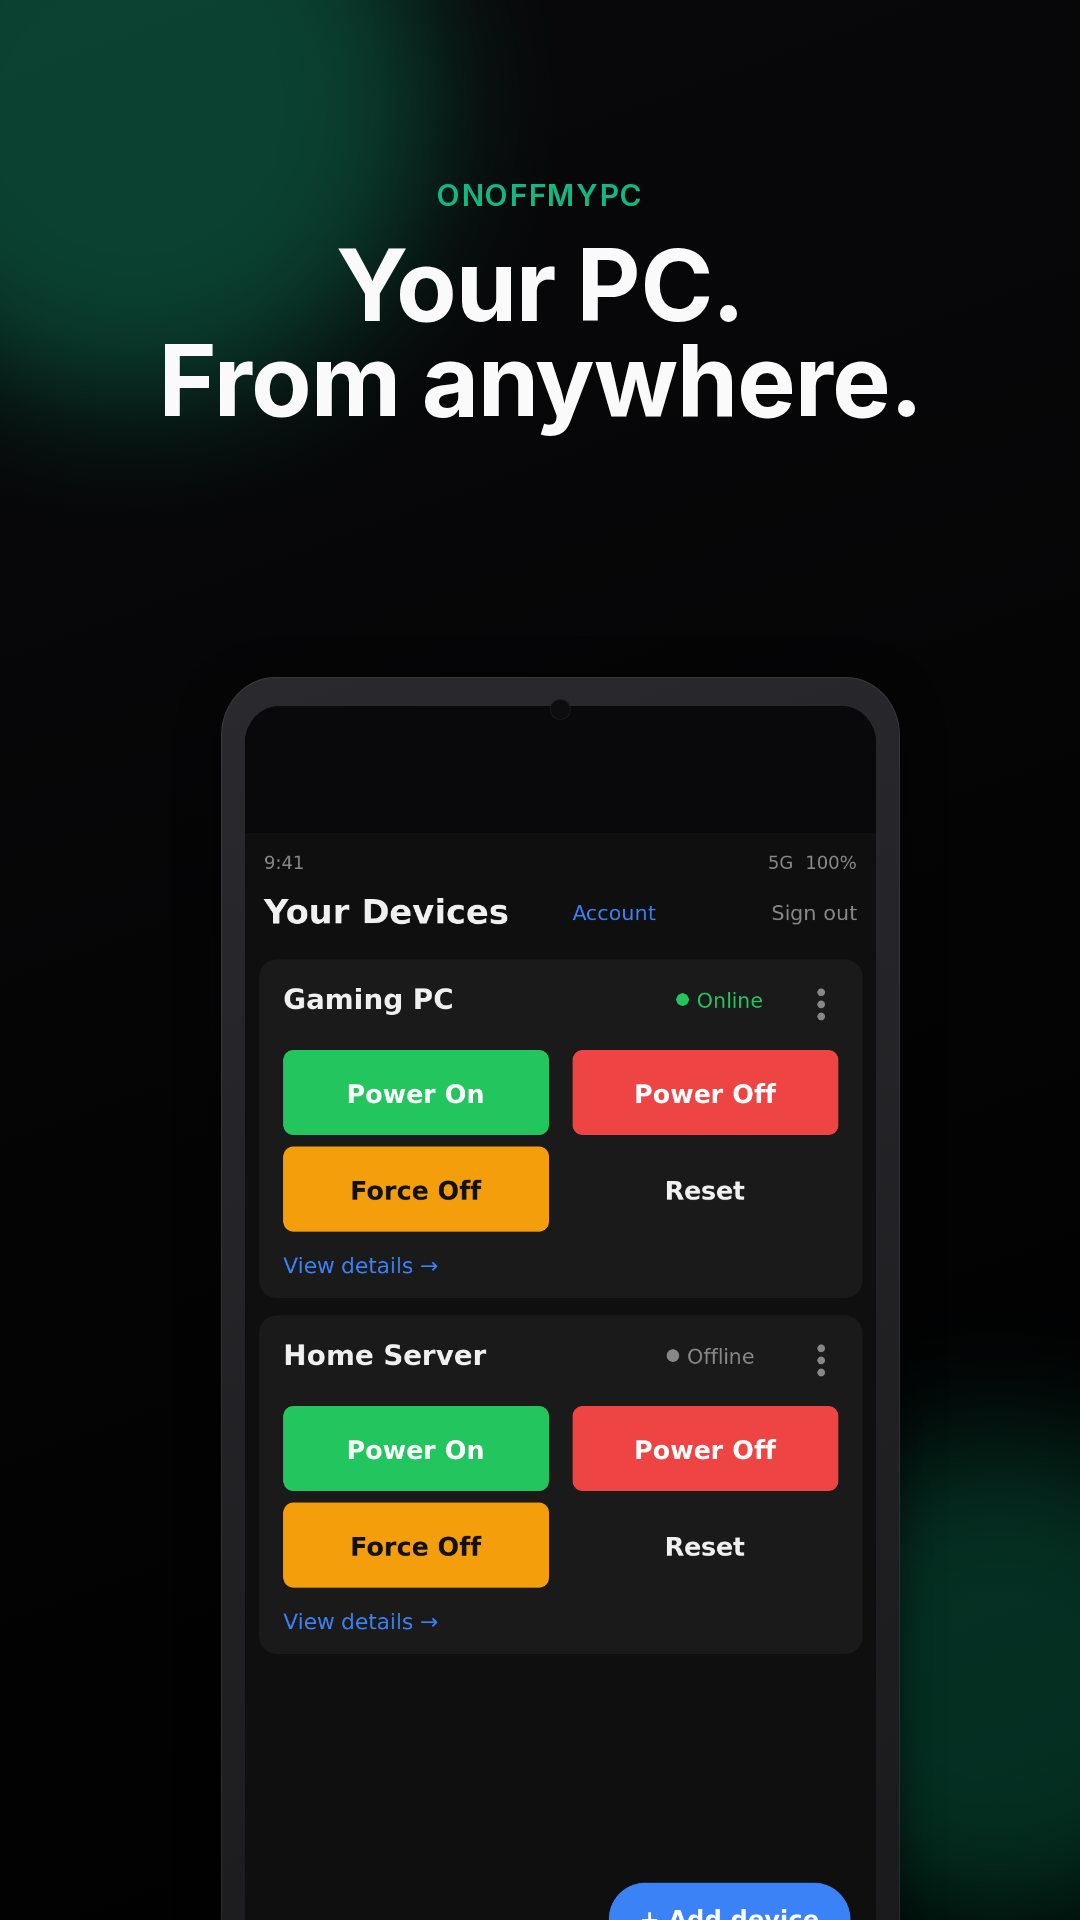
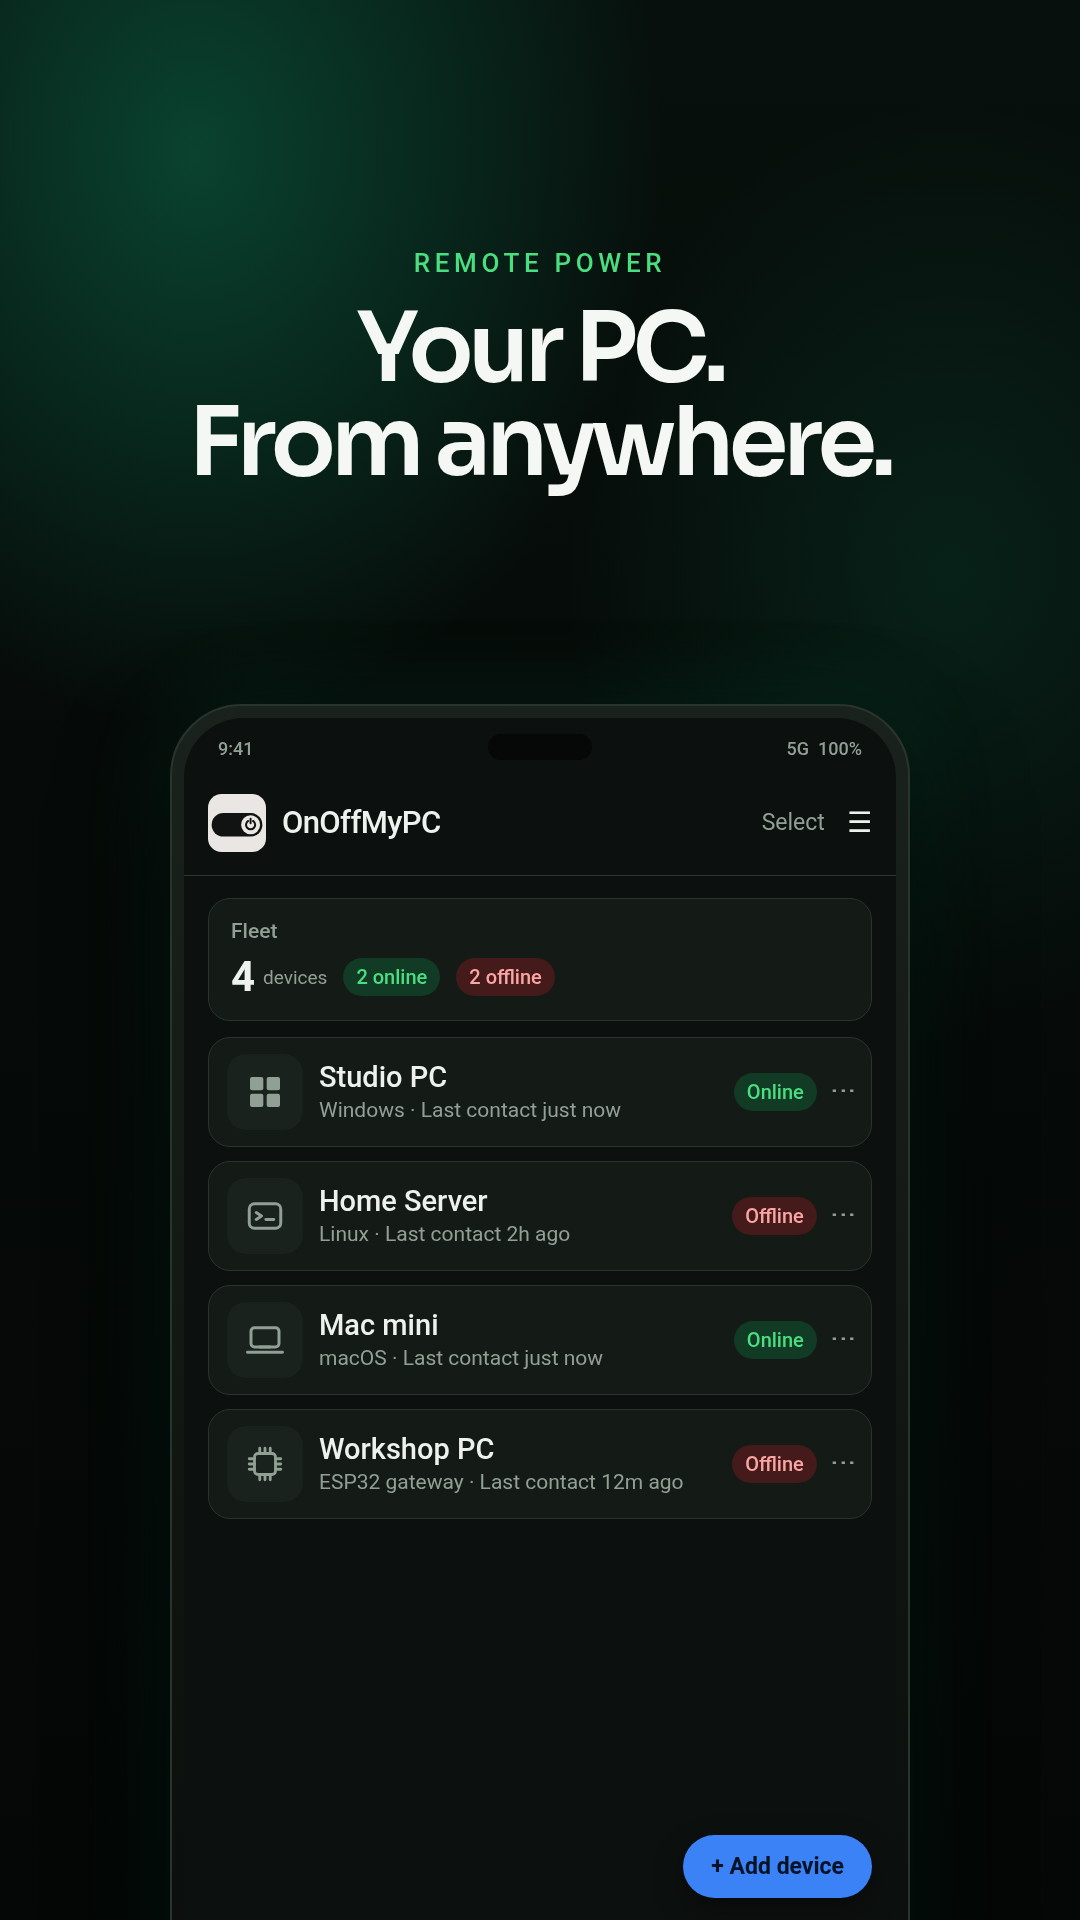
feat(play): refresh store screenshots for the Toggle release
Replace the old dashboard and login captures with the compact device list, device detail, and live telemetry views. Add the HTML artwork source.

diff --git a/mobile/playstore/screenshots/src/play-store.html b/mobile/playstore/screenshots/src/play-store.html
@@ -1,0 +1,261 @@
+<!doctype html>
+<html lang="en">
+<head>
+<meta charset="utf-8">
+<meta name="viewport" content="width=1080, initial-scale=1">
+<link rel="preconnect" href="https://fonts.googleapis.com">
+<link rel="preconnect" href="https://fonts.gstatic.com" crossorigin>
+<link href="https://fonts.googleapis.com/css2?family=Sora:wght@500;600;700&family=Roboto:wght@400;500;700&display=swap" rel="stylesheet">
+<style>
+  :root {
+    --canvas: #0c100e;
+    --surface: #141a16;
+    --subtle: #1a221d;
+    --strong: #222b25;
+    --border: #2a342e;
+    --border-strong: #3a463e;
+    --text: #eef2ee;
+    --muted: #91a094;
+    --blue: #3b82f6;
+    --blue-ink: #061225;
+    --blue-soft: #93c5fd;
+    --green: #4ade80;
+    --green-bg: #123b25;
+    --red: #fca5a5;
+    --red-bg: #451a1a;
+    --amber: #fbbf24;
+    --amber-bg: #3b2a0a;
+  }
+  * { box-sizing: border-box; }
+  html, body { margin: 0; background: #000; font-family: Roboto, system-ui, sans-serif; color: var(--text); }
+  .shot { position: relative; width: 1080px; height: 1920px; overflow: hidden; background: #060a08; }
+  .bg { position: absolute; inset: 0; background:
+    radial-gradient(ellipse 70% 48% at 18% 8%, rgba(16, 185, 129, .30), transparent 62%),
+    radial-gradient(ellipse 55% 38% at 88% 30%, rgba(16, 185, 129, .12), transparent 65%),
+    linear-gradient(180deg, #07100c 0%, #060a08 48%, #040706 100%);
+  }
+  .grain { position: absolute; inset: 0; opacity: .08; background-image: radial-gradient(rgba(255,255,255,.35) .6px, transparent .6px); background-size: 4px 4px; }
+  .marketing { position: absolute; top: 248px; left: 80px; right: 80px; text-align: center; z-index: 2; }
+  .eyebrow { color: var(--green); font-size: 26px; font-weight: 500; letter-spacing: .18em; text-transform: uppercase; }
+  h1 { margin: 24px 0 0; font-family: Sora, sans-serif; font-size: 96px; font-weight: 600; line-height: .98; letter-spacing: -.055em; color: #f4f7f4; }
+  .phone { position: absolute; z-index: 3; top: 704px; left: 170px; width: 740px; height: 1320px; padding: 12px; border: 2px solid var(--border); border-radius: 72px; background: linear-gradient(180deg, #1a221d, #0a0d0b); box-shadow: 0 46px 110px rgba(0,0,0,.72), 0 0 90px rgba(16,185,129,.13); }
+  .screen { position: relative; width: 100%; height: 100%; overflow: hidden; border-radius: 60px; background: var(--canvas); }
+  .notch { position: absolute; z-index: 8; top: 16px; left: 50%; width: 104px; height: 26px; transform: translateX(-50%); border-radius: 999px; background: #050806; }
+  .statusbar { display: flex; align-items: center; justify-content: space-between; height: 52px; padding: 8px 34px 0; color: var(--muted); font-size: 18px; font-weight: 500; }
+  .appbar { display: flex; align-items: center; gap: 16px; height: 106px; padding: 8px 24px; border-bottom: 1px solid var(--border); }
+  .logo { width: 58px; height: 58px; flex: none; }
+  .appbar .name { font-size: 31px; font-weight: 500; letter-spacing: -.02em; }
+  .appbar .actions { display: flex; align-items: center; gap: 22px; margin-left: auto; color: var(--muted); font-size: 23px; }
+  .appbar .select { font-size: 23px; }
+  .appbar .menu { color: var(--text); font-size: 28px; line-height: 1; }
+  .back { color: var(--muted); font-size: 36px; line-height: 1; margin-right: 4px; }
+  .content { padding: 22px 24px 0; }
+  .card { border: 1px solid var(--border); border-radius: 22px; background: var(--surface); }
+  .fleet { padding: 20px 22px 22px; margin-bottom: 16px; }
+  .fleet .label { color: var(--muted); font-size: 21px; font-weight: 500; }
+  .fleet .summary { display: flex; align-items: center; gap: 16px; margin-top: 13px; }
+  .total { font-size: 42px; font-weight: 700; line-height: 1; }
+  .total-label { margin-left: -8px; color: var(--muted); font-size: 19px; }
+  .pill { display: inline-flex; align-items: center; border-radius: 999px; padding: 7px 13px; font-size: 20px; font-weight: 500; white-space: nowrap; }
+  .online { color: var(--green); background: var(--green-bg); }
+  .offline { color: var(--red); background: var(--red-bg); }
+  .device { display: flex; align-items: center; gap: 16px; margin-bottom: 14px; padding: 16px 18px; }
+  .os { display: flex; width: 76px; height: 76px; flex: none; align-items: center; justify-content: center; border-radius: 19px; background: var(--subtle); }
+  .device-info { min-width: 0; flex: 1; }
+  .device-name { font-size: 29px; font-weight: 500; line-height: 1.1; }
+  .device-sub { margin-top: 5px; overflow: hidden; color: var(--muted); font-size: 21px; text-overflow: ellipsis; white-space: nowrap; }
+  .dots { margin-left: 2px; color: var(--muted); font-size: 26px; letter-spacing: 2px; writing-mode: vertical-rl; line-height: .7; }
+  .fab { position: absolute; right: 24px; bottom: 112px; display: flex; align-items: center; gap: 12px; border-radius: 999px; background: var(--blue); color: var(--blue-ink); padding: 18px 28px; font-size: 23px; font-weight: 600; box-shadow: 0 12px 30px rgba(0,0,0,.35); }
+  .tabs { display: flex; gap: 30px; height: 72px; padding: 0 24px; border-bottom: 1px solid var(--border); color: var(--muted); font-size: 22px; font-weight: 500; }
+  .tab { display: flex; align-items: center; border-bottom: 3px solid transparent; }
+  .tab.active { color: var(--blue-soft); border-bottom-color: var(--blue); }
+  .hero { display: flex; align-items: center; gap: 17px; padding: 19px 21px; margin-bottom: 16px; }
+  .hero .os { width: 92px; height: 92px; border-radius: 23px; }
+  .hero-info { min-width: 0; flex: 1; }
+  .hero-name { font-size: 35px; font-weight: 500; letter-spacing: -.02em; line-height: 1.05; }
+  .hero-sub { margin-top: 6px; color: var(--muted); font-size: 21px; white-space: nowrap; overflow: hidden; text-overflow: ellipsis; }
+  .pc-state { margin-top: 7px; color: var(--muted); font-size: 21px; }
+  .section-title { margin: 18px 0 9px; color: var(--muted); font-size: 22px; font-weight: 500; }
+  .power { padding: 18px 20px 20px; margin-bottom: 14px; }
+  .power h2 { margin: 0; font-size: 28px; font-weight: 500; letter-spacing: -.015em; }
+  .power p { margin: 7px 0 16px; color: var(--muted); font-size: 20px; line-height: 1.3; }
+  .power-grid { display: grid; grid-template-columns: 1fr 1fr; gap: 12px; }
+  .power-btn { display: flex; height: 78px; align-items: center; justify-content: center; border-radius: 16px; font-size: 24px; font-weight: 600; }
+  .power-on { background: var(--blue); color: var(--blue-ink); }
+  .power-off { background: #dc2626; color: #fff; }
+  .force { background: #f59e0b; color: #000; }
+  .reset { border: 1px solid var(--border-strong); color: var(--text); }
+  .connection { padding: 13px 19px; }
+  .conn-row { display: flex; align-items: baseline; justify-content: space-between; gap: 14px; padding: 9px 0; border-bottom: 1px solid rgba(42,52,46,.55); font-size: 20px; }
+  .conn-row:last-child { border-bottom: 0; }
+  .conn-label { color: var(--muted); }
+  .conn-value { overflow: hidden; color: var(--text); font-family: Roboto, sans-serif; text-align: right; white-space: nowrap; text-overflow: ellipsis; }
+  .mono { font-family: "Roboto Mono", ui-monospace, monospace; font-size: 18px; }
+  .stat-grid { display: grid; grid-template-columns: 1fr 1fr; gap: 12px; }
+  .stat { padding: 17px 18px; }
+  .stat .label { color: var(--muted); font-size: 19px; }
+  .stat .value { margin-top: 8px; font-size: 34px; font-weight: 500; letter-spacing: -.03em; }
+  .stat .value.green { color: var(--green); }
+  .latest { display: flex; align-items: center; justify-content: space-between; margin-top: 12px; padding: 16px 18px; }
+  .latest .label { color: var(--muted); font-size: 19px; }
+  .latest .value { font-size: 23px; }
+  .hardware { margin-top: 18px; }
+  .hardware-card { padding: 15px 18px; }
+  .hw-row { display: grid; grid-template-columns: 150px 1fr 58px; gap: 12px; align-items: center; padding: 7px 0; font-size: 19px; color: var(--muted); }
+  .hw-value { color: var(--text); text-align: right; }
+  .bar { height: 8px; overflow: hidden; border-radius: 99px; background: var(--strong); }
+  .bar span { display: block; height: 100%; border-radius: 99px; background: var(--blue); }
+  .chart { margin-top: 18px; }
+  .chart-card { padding: 16px 18px 12px; }
+  .chart-card .chart-title { color: var(--muted); font-size: 21px; }
+  .chart svg { display: block; width: 100%; height: auto; margin-top: 8px; }
+  .chart-label { fill: var(--muted); font-family: Roboto, sans-serif; font-size: 16px; }
+</style>
+</head>
+<body>
+
+<section class="shot" id="shot-1">
+  <div class="bg"></div><div class="grain"></div>
+  <div class="marketing">
+    <div class="eyebrow">Remote power</div>
+    <h1>Your PC.<br>From anywhere.</h1>
+  </div>
+  <div class="phone">
+    <div class="screen">
+      <div class="notch"></div>
+      <div class="statusbar"><span>9:41</span><span>5G&nbsp;&nbsp;100%</span></div>
+      <div class="appbar">
+        <svg class="logo" viewBox="0 0 64 64" aria-hidden="true">
+          <rect width="64" height="64" rx="15" fill="#e9e6e3"/>
+          <rect x="4" y="21" width="56" height="26" rx="13" fill="#111312"/>
+          <circle cx="47" cy="34" r="10.5" fill="#e9e6e3"/>
+          <path d="M49.65 29.76 A5 5 0 1 1 44.35 29.76" fill="none" stroke="#111312" stroke-width="2.2" stroke-linecap="round"/>
+          <rect x="45.9" y="26.1" width="2.2" height="7.4" rx="1.1" fill="#111312"/>
+        </svg>
+        <span class="name">OnOffMyPC</span>
+        <span class="actions"><span class="select">Select</span><span class="menu">☰</span></span>
+      </div>
+      <div class="content">
+        <div class="card fleet">
+          <div class="label">Fleet</div>
+          <div class="summary"><span class="total">4</span><span class="total-label">devices</span><span class="pill online">2 online</span><span class="pill offline">2 offline</span></div>
+        </div>
+        <div class="card device">
+          <span class="os">
+            <svg width="40" height="40" viewBox="0 0 24 24" aria-hidden="true"><g fill="#91a094"><rect x="3" y="3" width="8" height="8" rx="1.2"/><rect x="13" y="3" width="8" height="8" rx="1.2"/><rect x="3" y="13" width="8" height="8" rx="1.2"/><rect x="13" y="13" width="8" height="8" rx="1.2"/></g></svg>
+          </span>
+          <div class="device-info"><div class="device-name">Studio PC</div><div class="device-sub">Windows · Last contact just now</div></div>
+          <span class="pill online">Online</span><span class="dots">⋮</span>
+        </div>
+        <div class="card device">
+          <span class="os">
+            <svg width="42" height="42" viewBox="0 0 24 24" fill="none" stroke="#91a094" stroke-width="1.7" stroke-linecap="round" stroke-linejoin="round" aria-hidden="true"><rect x="3" y="5" width="18" height="14" rx="3"/><path d="M7 10l3 2-3 2M12.5 14h4.5"/></svg>
+          </span>
+          <div class="device-info"><div class="device-name">Home Server</div><div class="device-sub">Linux · Last contact 2h ago</div></div>
+          <span class="pill offline">Offline</span><span class="dots">⋮</span>
+        </div>
+        <div class="card device">
+          <span class="os">
+            <svg width="42" height="42" viewBox="0 0 24 24" fill="none" stroke="#91a094" stroke-width="1.7" stroke-linecap="round" stroke-linejoin="round" aria-hidden="true"><rect x="4" y="5" width="16" height="11" rx="2"/><path d="M2 19h20M9 16h6"/></svg>
+          </span>
+          <div class="device-info"><div class="device-name">Mac mini</div><div class="device-sub">macOS · Last contact just now</div></div>
+          <span class="pill online">Online</span><span class="dots">⋮</span>
+        </div>
+        <div class="card device">
+          <span class="os">
+            <svg width="42" height="42" viewBox="0 0 24 24" fill="none" stroke="#91a094" stroke-width="1.6" stroke-linecap="round" stroke-linejoin="round" aria-hidden="true"><rect x="6" y="6" width="12" height="12" rx="2"/><path d="M9 3v3M12 3v3M15 3v3M9 18v3M12 18v3M15 18v3M3 9h3M3 12h3M3 15h3M18 9h3M18 12h3M18 15h3"/></svg>
+          </span>
+          <div class="device-info"><div class="device-name">Workshop PC</div><div class="device-sub">ESP32 gateway · Last contact 12m ago</div></div>
+          <span class="pill offline">Offline</span><span class="dots">⋮</span>
+        </div>
+        <div class="fab">+ Add device</div>
+      </div>
+    </div>
+  </div>
+</section>
+
+<section class="shot" id="shot-2">
+  <div class="bg"></div><div class="grain"></div>
+  <div class="marketing">
+    <div class="eyebrow">One tap</div>
+    <h1>Power on.<br>Before you arrive.</h1>
+  </div>
+  <div class="phone">
+    <div class="screen">
+      <div class="notch"></div>
+      <div class="statusbar"><span>9:41</span><span>5G&nbsp;&nbsp;100%</span></div>
+      <div class="appbar"><span class="back">←</span><span class="name">Studio PC</span></div>
+      <div class="tabs"><span class="tab active">Overview</span><span class="tab">Activity</span><span class="tab">Telemetry</span><span class="tab">Settings</span></div>
+      <div class="content">
+        <div class="card hero">
+          <span class="os">
+            <svg width="48" height="48" viewBox="0 0 24 24" aria-hidden="true"><g fill="#91a094"><rect x="3" y="3" width="8" height="8" rx="1.2"/><rect x="13" y="3" width="8" height="8" rx="1.2"/><rect x="3" y="13" width="8" height="8" rx="1.2"/><rect x="13" y="13" width="8" height="8" rx="1.2"/></g></svg>
+          </span>
+          <div class="hero-info"><div class="hero-name">Studio PC</div><div class="hero-sub">Windows · Last contact just now</div><div class="pc-state">PC is on</div></div>
+          <span class="pill online">Online</span>
+        </div>
+        <div class="card power">
+          <h2>Power controls</h2>
+          <p>Requests are sent to the device; acknowledgement does not confirm the PC's final state.</p>
+          <div class="power-grid"><div class="power-btn power-on">Power On</div><div class="power-btn power-off">Power Off</div><div class="power-btn force">Force Off</div><div class="power-btn reset">Reset</div></div>
+        </div>
+        <div class="section-title">Connection</div>
+        <div class="card connection">
+          <div class="conn-row"><span class="conn-label">Mode</span><span class="conn-value">Desktop agent</span></div>
+          <div class="conn-row"><span class="conn-label">Platform</span><span class="conn-value">Windows</span></div>
+          <div class="conn-row"><span class="conn-label">Version</span><span class="conn-value">0.1.4</span></div>
+          <div class="conn-row"><span class="conn-label">Cloud relay</span><span class="conn-value mono">api.onoffmypc.com:443</span></div>
+          <div class="conn-row"><span class="conn-label">Local IP</span><span class="conn-value mono">192.168.1.20</span></div>
+        </div>
+      </div>
+    </div>
+  </div>
+</section>
+
+<section class="shot" id="shot-3">
+  <div class="bg"></div><div class="grain"></div>
+  <div class="marketing">
+    <div class="eyebrow">Live telemetry</div>
+    <h1>Every reading.<br>At a glance.</h1>
+  </div>
+  <div class="phone">
+    <div class="screen">
+      <div class="notch"></div>
+      <div class="statusbar"><span>9:41</span><span>5G&nbsp;&nbsp;100%</span></div>
+      <div class="appbar"><span class="back">←</span><span class="name">Studio PC</span></div>
+      <div class="tabs"><span class="tab">Overview</span><span class="tab">Activity</span><span class="tab active">Telemetry</span><span class="tab">Settings</span></div>
+      <div class="content">
+        <div class="stat-grid">
+          <div class="card stat"><div class="label">PC State</div><div class="value green">On</div></div>
+          <div class="card stat"><div class="label">Temperature</div><div class="value">22.4°C</div></div>
+          <div class="card stat"><div class="label">Humidity</div><div class="value">41%</div></div>
+          <div class="card stat"><div class="label">Signal</div><div class="value">-58 dBm</div></div>
+        </div>
+        <div class="card latest"><span class="label">Latest Telemetry</span><span class="value">Just now</span></div>
+        <div class="hardware">
+          <div class="section-title">PC hardware telemetry</div>
+          <div class="card hardware-card">
+            <div class="hw-row"><span>CPU Load</span><span class="bar"><span style="width:18%"></span></span><span class="hw-value">18%</span></div>
+            <div class="hw-row"><span>GPU Temp</span><span class="bar"><span style="width:42%;background:#fca5a5"></span></span><span class="hw-value">42°C</span></div>
+            <div class="hw-row"><span>RAM Usage</span><span class="bar"><span style="width:44%;background:#93c5fd"></span></span><span class="hw-value">14.2/32G</span></div>
+          </div>
+        </div>
+        <div class="chart">
+          <div class="card chart-card">
+            <div class="chart-title">Temperature — last 7 days</div>
+            <svg viewBox="0 0 640 240" role="img" aria-label="Seven day temperature chart">
+              <g stroke="#2a342e" stroke-width="1"><line x1="18" y1="40" x2="622" y2="40"/><line x1="18" y1="100" x2="622" y2="100"/><line x1="18" y1="160" x2="622" y2="160"/></g>
+              <path d="M18 172 L116 142 L214 150 L312 104 L410 122 L508 78 L606 92 L606 206 L18 206 Z" fill="rgba(59,130,246,.10)"/>
+              <path d="M18 172 L116 142 L214 150 L312 104 L410 122 L508 78 L606 92" fill="none" stroke="#3b82f6" stroke-width="5" stroke-linejoin="round" stroke-linecap="round"/>
+              <g fill="#3b82f6"><circle cx="18" cy="172" r="5"/><circle cx="116" cy="142" r="5"/><circle cx="214" cy="150" r="5"/><circle cx="312" cy="104" r="5"/><circle cx="410" cy="122" r="5"/><circle cx="508" cy="78" r="5"/><circle cx="606" cy="92" r="5"/></g>
+              <g class="chart-label"><text x="18" y="232">Mon</text><text x="202" y="232">Wed</text><text x="386" y="232">Fri</text><text x="586" y="232">Sun</text></g>
+            </svg>
+          </div>
+        </div>
+      </div>
+    </div>
+  </div>
+</section>
+
+</body>
+</html>
